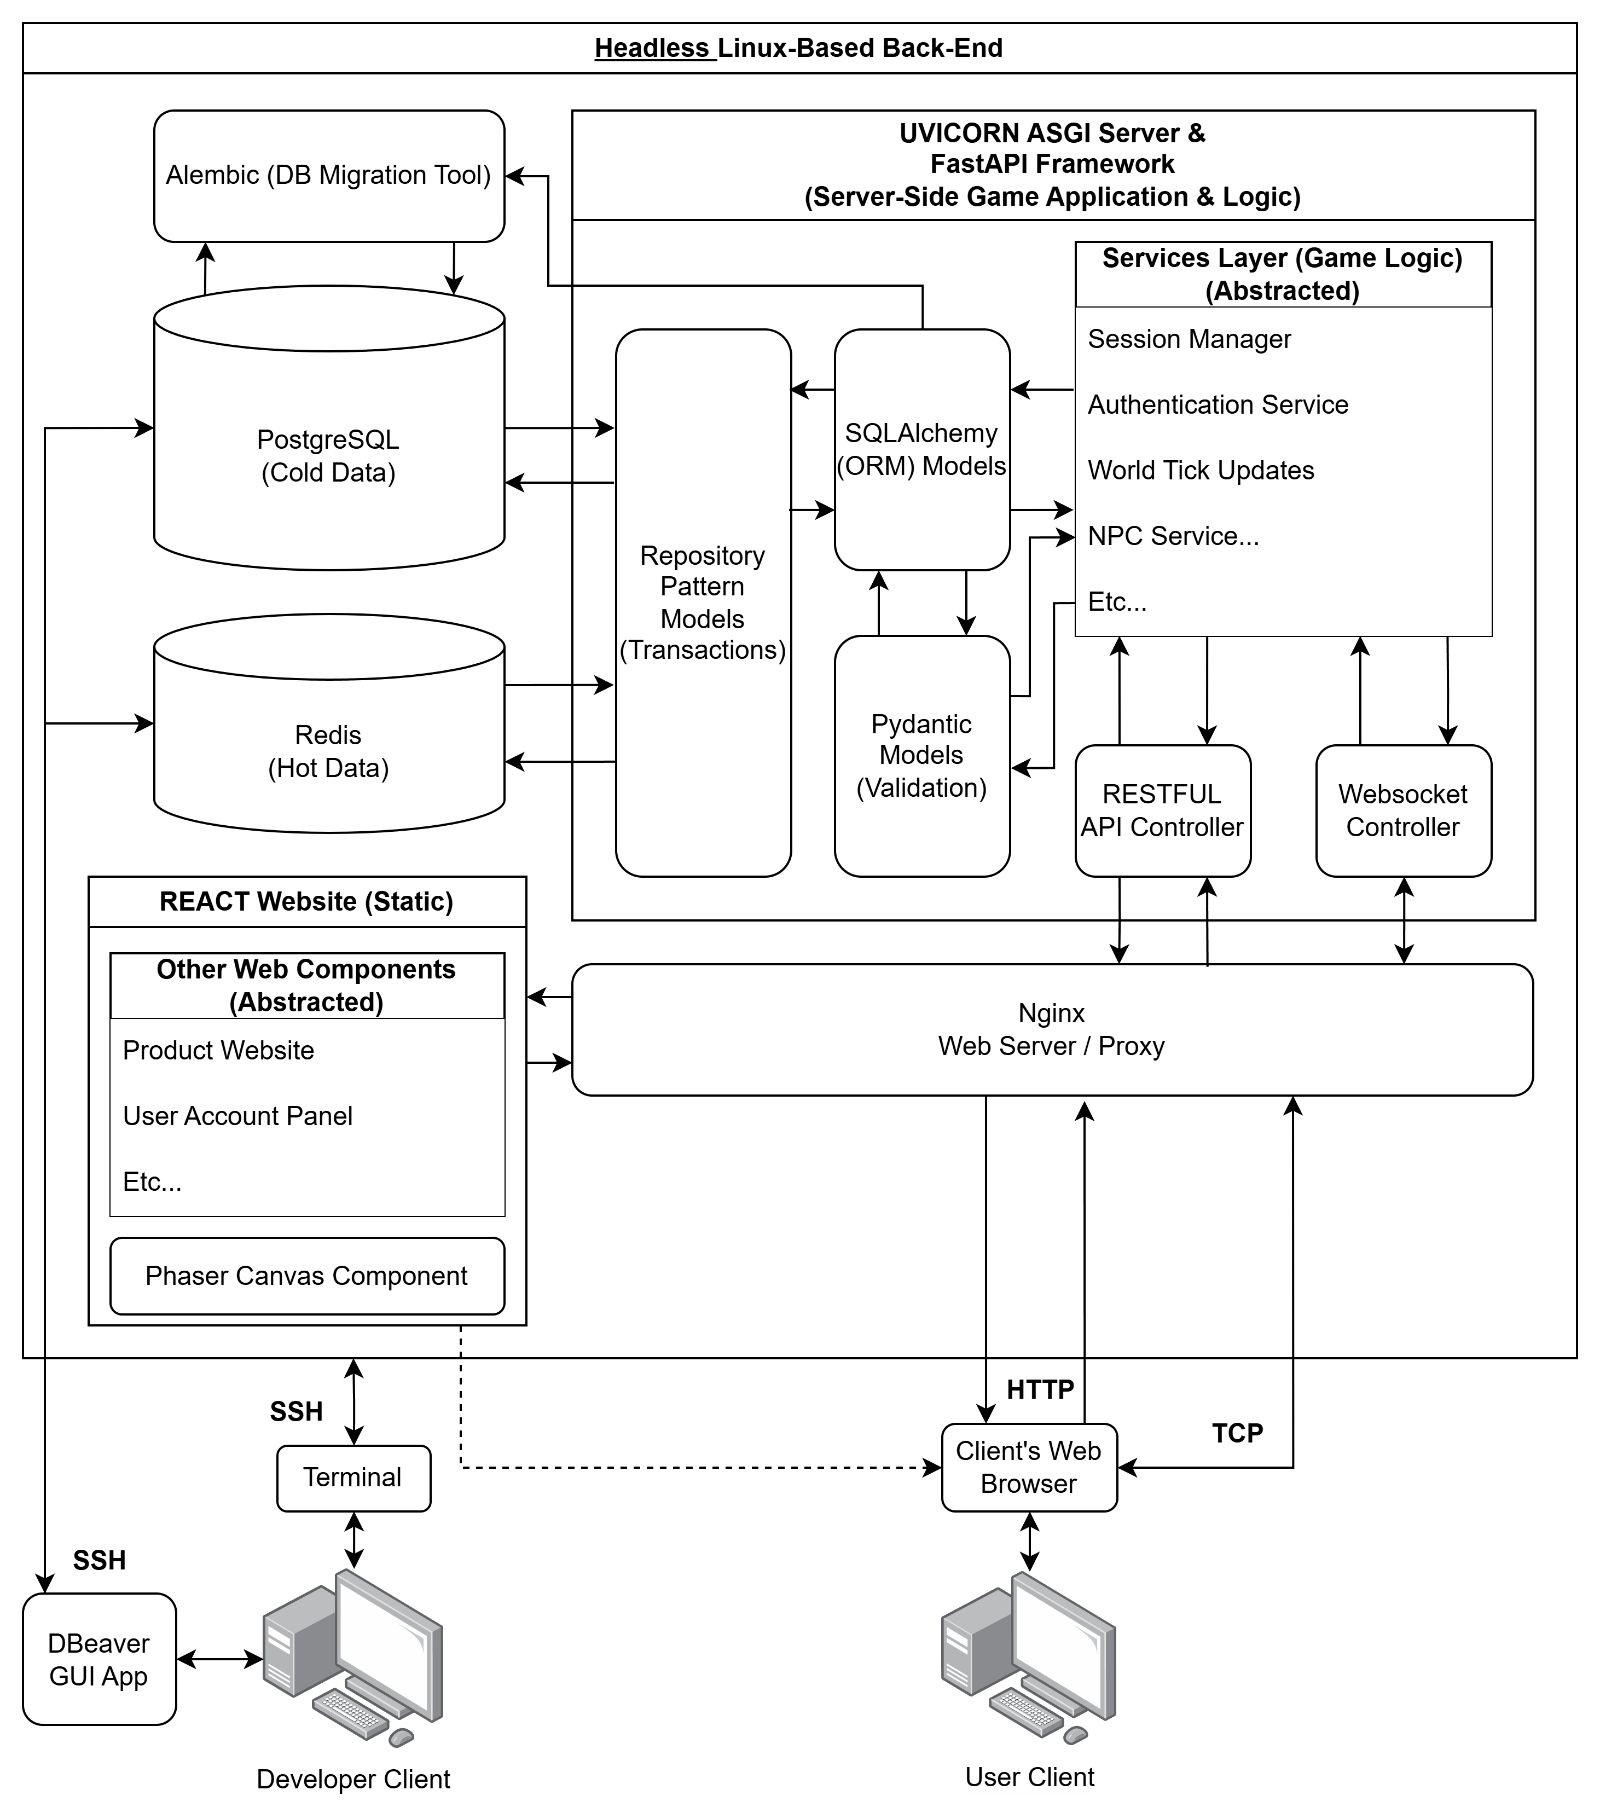
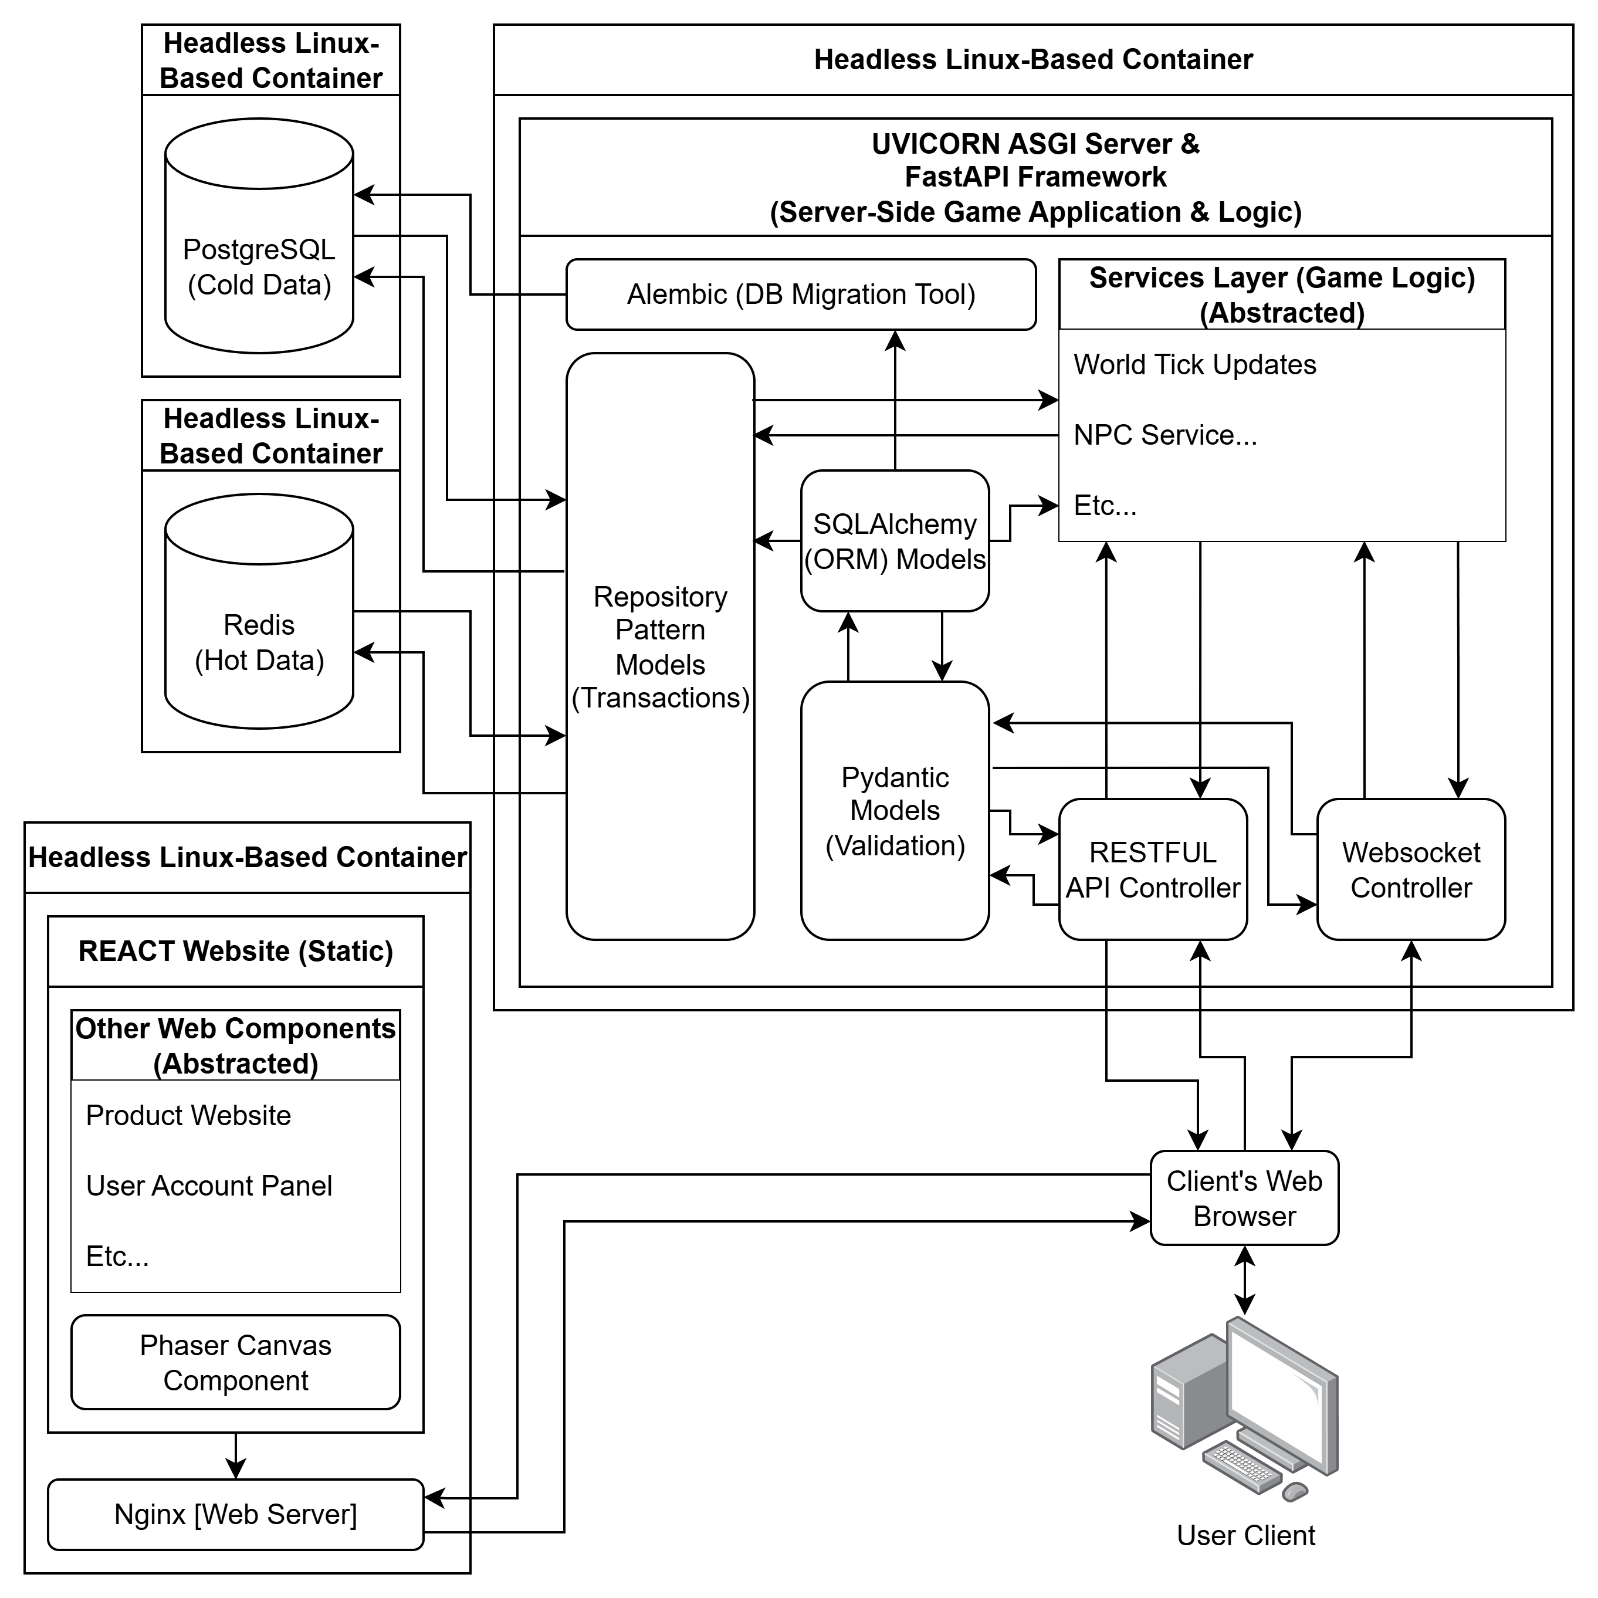
Updated some documentation files and folders.
Rearrange PlantUML files and folders. Updated documentation README to suit the changes. Updated the design document to reflect mircroservice architecture.

Changed region(s): [[0.0, 0.0, 1.0, 1.0]]

diff --git a/documentation/DesignDocument.md b/documentation/DesignDocument.md
@@ -93,7 +93,7 @@ This is a <u>living document</u> for the development of an indie game project th
 
 [Systems Design [17](#systems-design-1)](#systems-design-1)
 
-[References [18](#_Toc202384493)](#_Toc202384493)
+[References [18](#_Toc202576355)](#_Toc202576355)
 
 # Conceptualisation
 
@@ -251,14 +251,13 @@ This world is not just alive—it remembers. Overharvested forests dwindle, band
 
 ## (DI_V0.1) Proof of Concept Back-End Infrastructure
 
-The initial Tech-Stack will be designed to be monolithic as the project is intended to be small and resources of all categories (labour, budget, etc…) are limited. During coding however, encapsulation practices will be utilised to allow for future scaling and changes to the deployment architecture.
+The Tech-Stack and general systems design principles used will revolve around the concept of microservice architecture and encapsulation. The main advantage of this would be to more easily adopt horizontal scalability in the future, as is standard practise with cloud based live service software and games. As can be seen in the figure below, the initial tech-stack will be broken down into 4 separate containers: the static website, Redis DB, Postgres DB and the backend game service. Container deployment and management will be done through Docker-Compose.
 
 <u>The figure below showcases the basic monolithic tech-stack architecture</u>:
 
-<figure>
-<img src="design_document_media/media/image3.png" style="width:7.26806in;height:8.2625in" alt="A screenshot of a computer screen AI-generated content may be incorrect." />
-<figcaption><p>: Monolithic Tech-Stack Architecture of the Project.</p></figcaption>
-</figure>
+<img src="design_document_media/media/image3.png" style="width:7.26772in;height:7.26772in" alt="A diagram of a software system AI-generated content may be incorrect." />
+
+: Monolithic Tech-Stack Architecture of the Project.
 
 ### Tech Stack Description
 
@@ -268,11 +267,11 @@ React builds the user interface (UI) of the game, while Phaser handles the 2D ga
 
 **<u>Nginx</u>**:
 
-Nginx is a high-performance web server that serves static frontend files (like React+Phaser builds) and acts as a reverse proxy for API and WebSocket requests to the backend. It handles HTTPS termination, load balancing, and routes traffic cleanly to Uvicorn.
+Nginx is a high-performance web server that serves static frontend files (like React+Phaser builds) There is the potential to use Nginx for load balancing in the future, to help with optimising horizontal scaling of containers.
 
 **<u>Uvicorn</u>**:
 
-Uvicorn is an ASGI server that runs the FastAPI backend. It supports both HTTP and WebSocket protocols, managing connections and concurrency for real-time gameplay and standard API routes. It listens behind Nginx and executes the Python application code.
+Uvicorn is an ASGI server that runs the FastAPI backend and executes the Python application code. It supports both HTTP and WebSocket protocols, managing connections and concurrency for real-time gameplay and standard API routes.
 
 **<u>FastAPI + Pydantic + SQLAlchemy</u>**:
 
@@ -378,7 +377,7 @@ Alembic is a schema migration tool that tracks and applies changes to the Postgr
 
 ### Hybrid MVC Software Architectural Pattern
 
-The tech-stack described above allows for the project to implement a hybrid of the MVC software architecture pattern and real-time client-server sync: backend Models are mutated via controller logic (FastAPI), and changes are streamed to the frontend where lightweight client-side models are reconstructed and rendered. This allows authoritative world logic on the server while providing responsive client-side views.
+The tech-stack described above allows for the project to implement a hybrid of the MVC software architecture pattern and real-time client-server synchronisation. Backend models are mutated via backend application logic, and changes are streamed to the frontend where lightweight client-side models are reconstructed and rendered. This allows authoritative world logic on the server while providing responsive client-side views.
 
 In this hybrid architecture, it is imperative that all model state changes occur only at the backend which maintains the “Authoritative Source of Truth”, such that users are not able to maliciously compromise the integrity of the models’ state. Data sent to the frontend should only be what is required for the user’s client to render what the users are allowed to perceive, and only what information the users are allowed to know. Information sent back from the frontend should only be action requests that are validated when received by the backend.
 
@@ -468,11 +467,11 @@ Several 2D tile set, from <https://kenney.nl/> will be used for project SLFW’s
 
 The following standard design considerations are taken into account when designing and developing the project’s frontend’s application:
 
-- **Separation of Concerns**: Keep UI, game logic, and data/services separate.
+- **Separation of Concerns**: Keep UI, game logic, and data/services as separate as possible (can be difficult with React).
 
-- **Reusability**: Services and hooks can be reused across scenes and components.
+- **Reusability**: Services and hooks can be reused across scenes and components. For example, the API and WebSocket services will be singleton classes throughout the frontend.
 
-- **Scalability**: Structure supports adding new features (scenes, services, UI) without major refactoring.
+- **Scalability**: Structure of frontend supports adding new features (scenes, services, UI) without major refactoring.
 
 - **Responsiveness**: Phaser canvas resizes with its parent container. The React website itself to have layout considerations across 3 main aspect ratios: 21:9, 16:9 and 9:16, with an approximately 20% responsive buffer between each.
 
@@ -510,10 +509,20 @@ The following standard design considerations are taken into account when designi
 
 ### Systems Design
 
+#### Design Considerations
+
+The following are some design considerations that have been taken into account when developing the game’s backend classes and systems:
+
+- Service vs Entity Methods: <u>Entities MUST have action methods within its definition</u>, as physiological abilities would inherently be different from decision making abilities. I.e. not all animals would have the same “perception” logic or abilities (like a giraffe could look over walls without trying) – but they could all have the same decision-making logic regardless (like if a giraffe and zebra would both look for plants to eat, despite their perception difference). Thus, <u>decision making methods would fall under service classes</u>.
+
+- Actors’ Artificial Intelligence (the game NPC kind, not generative) systems will be based on generating priorities from a set of rules and algorithms. For example, if a grass eating animal is hungry, generate \[eat grass\]. If \[find grass\] is in the priority list, never generate \[eat grass\]. If a grass eating animal perceives grass, remove \[find grass\] from the priority list.
+
 #### Class Diagrams
 
 # References
 
 CipSoft. (n.d.). *Screenshots*. Retrieved from tiba.com: https://www.tibia.com/abouttibia/?subtopic=screenshots
+
+Kenney.nl. (2025). *Assets*. Retrieved from Kenny: 'www.kenney.nl
 
 MMO Reviews. (n.d.). *Tibia*. Retrieved from MMO Reviews: https://www.mmoreviews.com/tibi/

diff --git a/documentation/README.md b/documentation/README.md
@@ -1,14 +1,23 @@
 This README informs developers on how to use pandoc to create .md files from the .docx project documents.
 
-# Requirements
+# Updating the project documentation:
+
+## Requirements:
 
 Install pandoc on your system. https://pandoc.org
 
-# Warning to write access users of this folder.
+## Warning to write access users of this folder:
 
 Leave underline.lua alone, it's for converting .docx to .md
 
-# Converting from .docx to .md:
+## Transfer Living Documents
+
+Transfer the project's living .docx documents from the shared onedrive to the "documentation" folder in the repo. This would include:
+
+- 'Design Document.docx'
+- 'Project Management.docx'
+
+## Converting from .docx to .md:
 
 When converting .docx to .md, use the following terminal commands (make sure you're in the working directory where the .docx and underline.lua is located):
 
@@ -23,6 +32,10 @@ pandoc 'Design Document.docx' -o 'DesignDocument.md' --from=docx --to=gfm --extr
 pandoc 'Project Management.docx' -o 'ProjectManagement.md' --from=docx --to=gfm --extract-media='project_management_media' --standalone --wrap=preserve --lua-filter=underline.lua --toc
 ```
 
-### Post pandoc editing of .md files:
+## Post pandoc editing of .md files:
 
 After converting from .docx to .md, the .docx version of the Table of Contents (TOC) will remain unformatted (pandoc creates its own), the Title line from the .docx is also removed (pandoc doesn't conver Title headers). Remove the subtitle line and unformatted table of contents from the .md file before publishing.
+
+## Remove Living Documents From the Repo
+
+As per the header, delete the live documents from the repo, since we now have the .md version.

diff --git a/documentation/system_design_diagrams/REAME.md b/documentation/system_design_diagrams/REAME.md
@@ -38,13 +38,16 @@ Install the PLantUML extension by jebbs for quick previews using the online API 
 
     documentation/
     └── system_design_diagrams/
-        └── plantUML/
-            ├── shared/
-            ├── npc/
-            ├── world/
-            ├── economy/
-            ├── backend/
-            └── plantuml-mit-1.2025.3.jar
+        ├── sequence_diagrams/
+        └── class_diagrams/
+            ├── entity/
+            ├── tile/
+            ├── gameboard/
+            ├── service/
+            ├── types/
+            └── class_diagrams.puml
+        ├── plantuml-mit-1.2025.3.jar
+        └── REAMDME.md
 
 Each subfolder contains domain-specific `.puml` files.
 

diff --git a/documentation/ProjectManagement.md b/documentation/ProjectManagement.md
@@ -108,7 +108,7 @@ Sprints will be largely defined by new or incrementally improved features, desig
 <u>The figure below illustrates the development loop the team will undertake</u>:
 
 <figure>
-<img src="project_management_media/media/image1.png" style="width:3.96875in;height:2.90625in" alt="A screenshot of a computer AI-generated content may be incorrect." />
+<img src="project_management_media/media/image1.png" style="width:5.84154in;height:2.664in" alt="A diagram of a software development process AI-generated content may be incorrect." />
 <figcaption><p>: Development methodology for Project SLFW.</p></figcaption>
 </figure>
 
